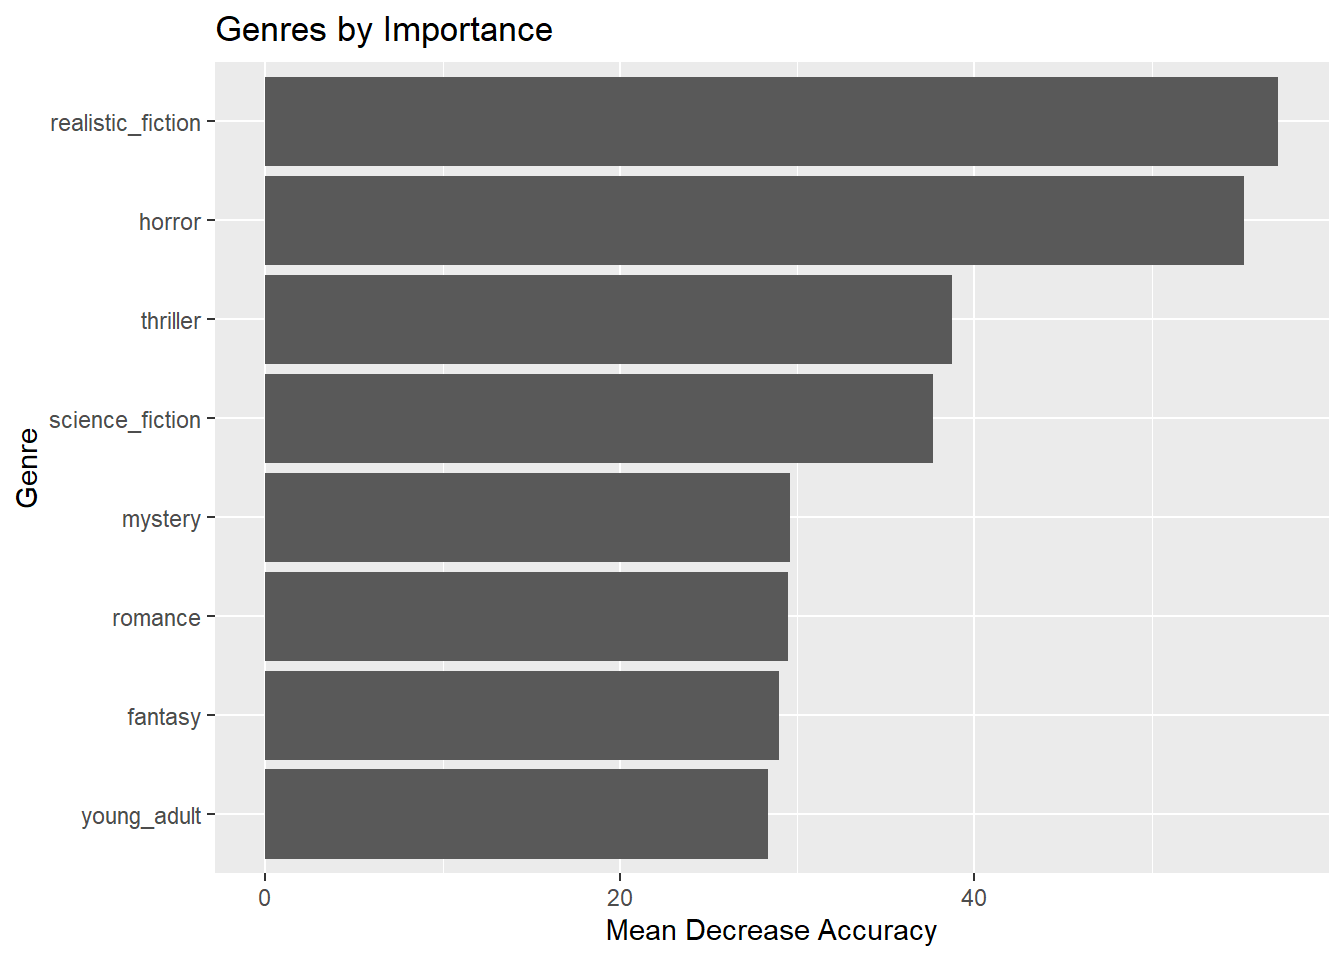
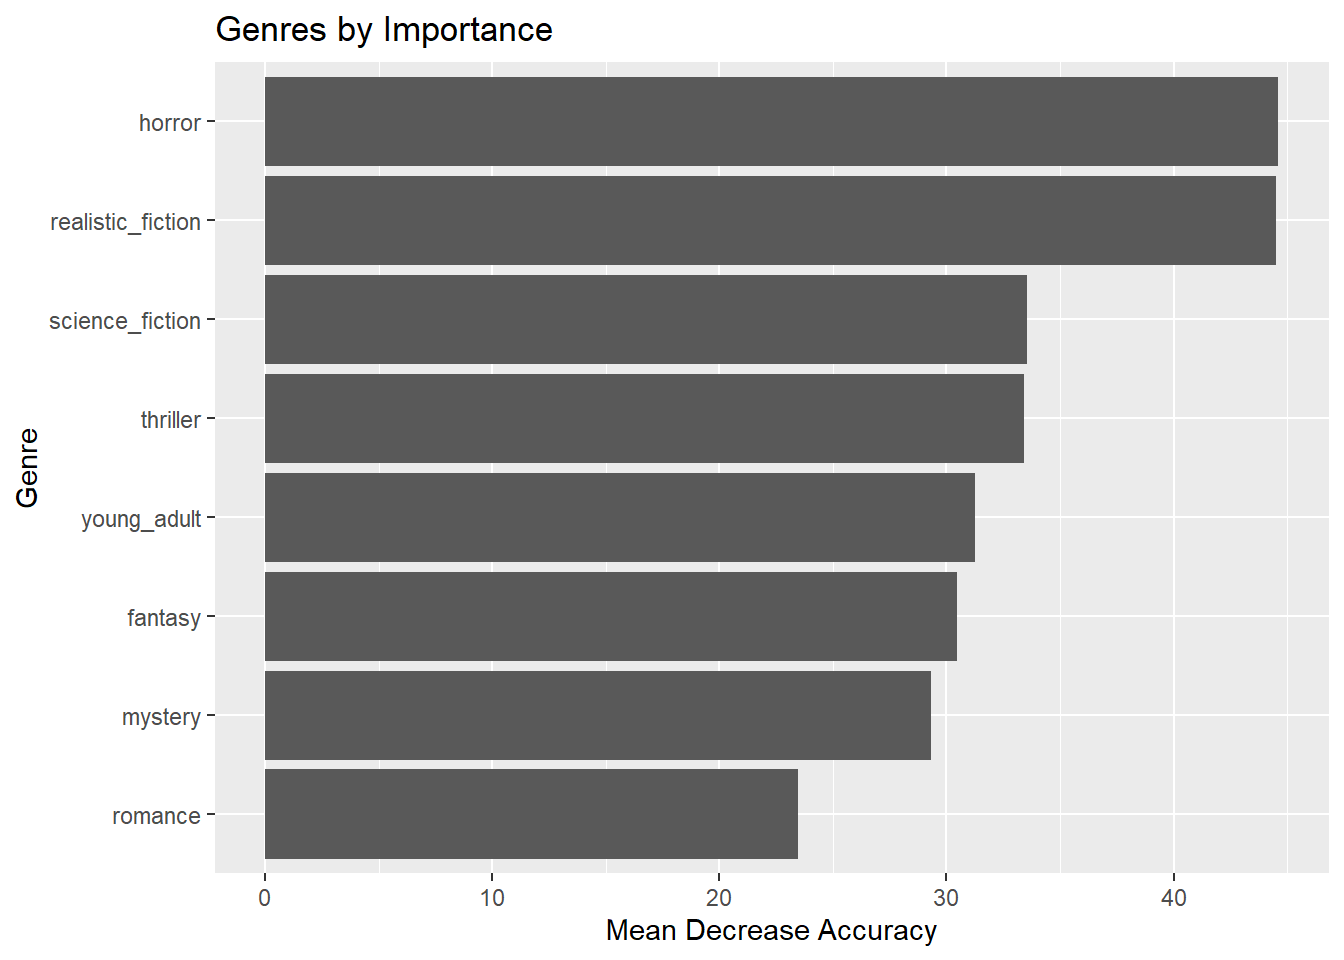
Clean up prediction section

diff --git a/docs/index.html b/docs/index.html
@@ -395,9 +395,6 @@ head(user_features_df, 15) %&gt;%
 <p>Now that we have transformed the original data into a data frame of average genre ratings for all users, we can begin analyzing users based on genre ratings.</p>
 <p>One way to better understand data in general is through visualization. For example, if we want to see where the readership lies on ratings for young adult versus fantasy, we can do so by plotting the average ratings from both genres on a 2D scatterplot.</p>
 <pre class="r"><code>ggplot(user_features_df, mapping=aes(x=fantasy, y=young_adult)) + 
-# If you don&#39;t want to see user averages for users who have not rated books from either genre, uncomment the next two lines
-#  scale_x_continuous(limits = c(0, 5)) + 
-#  scale_y_continuous(limits = c(0, 5)) + 
   geom_point() +
   labs(
     title=&quot;User Average Ratings for Young Adult Versus Fantasy&quot;,
@@ -475,58 +472,52 @@ kmeans_res$centers %&gt;%
 {"columns":[{"label":["fantasy"],"name":[1],"type":["dbl"],"align":["right"]},{"label":["horror"],"name":[2],"type":["dbl"],"align":["right"]},{"label":["mystery"],"name":[3],"type":["dbl"],"align":["right"]},{"label":["realistic_fiction"],"name":[4],"type":["dbl"],"align":["right"]},{"label":["romance"],"name":[5],"type":["dbl"],"align":["right"]},{"label":["science_fiction"],"name":[6],"type":["dbl"],"align":["right"]},{"label":["thriller"],"name":[7],"type":["dbl"],"align":["right"]},{"label":["young_adult"],"name":[8],"type":["dbl"],"align":["right"]}],"data":[{"1":"4.08","2":"4.06","3":"4.09","4":"-5.00","5":"4.03","6":"3.99","7":"4.00","8":"4.03"},{"1":"4.07","2":"3.95","3":"4.03","4":"3.96","5":"3.98","6":"4.04","7":"3.99","8":"4.07"},{"1":"3.54","2":"-5.00","3":"3.99","4":"3.88","5":"3.96","6":"1.90","7":"3.13","8":"4.09"},{"1":"4.57","2":"4.53","3":"4.56","4":"4.48","5":"4.52","6":"4.56","7":"4.55","8":"4.56"},{"1":"3.62","2":"3.45","3":"3.58","4":"3.54","5":"3.54","6":"3.57","7":"3.53","8":"3.63"},{"1":"3.11","2":"2.96","3":"3.11","4":"3.13","5":"3.10","6":"2.59","7":"2.69","8":"3.15"}],"options":{"columns":{"min":{},"max":[10]},"rows":{"min":[10],"max":[10]},"pages":{}}}
   </script>
 </div>
-<pre class="r"><code># PCA
-pca_res &lt;- prcomp(user_features_df, center=TRUE, scale.=TRUE)
-plot_data &lt;- pca_res$x[,1:2] %&gt;%
-  as_tibble() %&gt;%
-  mutate(cluster=factor(kmeans_res$cluster))
- 
-ggplot(plot_data, aes(PC1, PC2, color=cluster)) +
-  geom_point() + 
+<pre class="r"><code>autoplot(kmeans_res, data=user_features_df, frame=TRUE) +
   labs(title=&quot;Readership Clusters&quot;)</code></pre>
 <p><img src="index_files/figure-html/unnamed-chunk-8-1.png" width="672" style="display: block; margin: auto;" /></p>
+<p>We can try to qualitatively summarize our clusters:</p>
+<ol style="list-style-type: decimal">
+<li>Rates average 4 in all genres but doesn’t read realistic fiction</li>
+<li>Rates average 4 in all genres</li>
+<li>Rates average 3-4 in all genres but dislikes sci-fi and doesn’t read horror</li>
+<li>Rates average 4.5-5 in all genres</li>
+<li>Rates average 3.5 in all genres</li>
+<li>Rates average 3 all genres</li>
+</ol>
 </div>
 </div>
 <div id="making-predictions" class="section level2">
 <h2>Making Predictions</h2>
-<p>Here in this section we talk about prediction analysis using R, specifically with regards to basic machine learning. In the following code chunk, we take our previous results from k-means clustering, and then append them to our previous dataframe in order to augment it into a <strong>training data frame</strong>. Notice also here that we’re also generating the individual Principal Components used in PCA before. The intent here is that we can select a subset of the most important (cover the most variability) Principal Components and use those in other prediction methods. We’ve also included a graph of the PC’s and how they correspond to clustering with the k-means algorithm.</p>
+<p>Now that we have done some analysis on our data and characterized Goodreads’ users into clusters, let’s see if we can predict which clusters users will land in using some basic machine learning (ML) techniques.</p>
+<p>In general, data is split into two classes for, one for training the model and the other for testing the model. Let’s take a sample of our users and split them into training and testing data.</p>
 <pre class="r"><code>set.seed(1234)
 
 # Set up training data for cluster prediction   
-training_data_ratings &lt;- user_features_df %&gt;%
+user_sample &lt;- user_features_df %&gt;%
   mutate(cluster=factor(kmeans_res$cluster)) %&gt;%
   sample_n(5000)
 
-# Setting up training data for PCA anlaysis
-training_data_pca &lt;-  as.data.frame(predict(pca_res, training_data_ratings)) %&gt;% as_tibble()
-training_data_pca$cluster &lt;- training_data_ratings$cluster
-
-training_data_ratings %&gt;%   
-  head(15) %&gt;%  
-  rmarkdown::paged_table()</code></pre>
-<div data-pagedtable="false">
-<script data-pagedtable-source type="application/json">
-{"columns":[{"label":["fantasy"],"name":[1],"type":["dbl"],"align":["right"]},{"label":["horror"],"name":[2],"type":["dbl"],"align":["right"]},{"label":["mystery"],"name":[3],"type":["dbl"],"align":["right"]},{"label":["realistic_fiction"],"name":[4],"type":["dbl"],"align":["right"]},{"label":["romance"],"name":[5],"type":["dbl"],"align":["right"]},{"label":["science_fiction"],"name":[6],"type":["dbl"],"align":["right"]},{"label":["thriller"],"name":[7],"type":["dbl"],"align":["right"]},{"label":["young_adult"],"name":[8],"type":["dbl"],"align":["right"]},{"label":["cluster"],"name":[9],"type":["fctr"],"align":["left"]}],"data":[{"1":"4.000000","2":"4.200000","3":"4.137931","4":"4.090909","5":"3.956522","6":"3.833333","7":"3.772727","8":"4.068182","9":"2"},{"1":"4.346154","2":"4.583333","3":"4.258065","4":"4.375000","5":"4.114286","6":"4.388889","7":"4.200000","8":"4.357143","9":"4"},{"1":"2.542373","2":"1.750000","3":"2.866667","4":"3.023810","5":"2.710744","6":"2.555556","7":"4.000000","8":"2.764706","9":"6"},{"1":"3.250000","2":"3.208333","3":"3.277778","4":"3.210526","5":"3.470588","6":"3.263158","7":"3.355769","8":"3.531250","9":"5"},{"1":"4.294118","2":"4.000000","3":"3.954545","4":"4.090909","5":"4.026316","6":"4.200000","7":"3.823529","8":"4.388889","9":"2"},{"1":"3.611765","2":"3.611111","3":"3.478261","4":"3.266667","5":"3.238095","6":"3.606061","7":"3.350000","8":"3.512821","9":"5"},{"1":"3.923077","2":"3.666667","3":"4.102564","4":"4.215385","5":"4.146667","6":"3.736842","7":"3.800000","8":"4.115789","9":"2"},{"1":"3.642857","2":"3.375000","3":"3.620000","4":"3.517241","5":"3.230769","6":"3.500000","7":"3.589744","8":"4.066667","9":"5"},{"1":"3.400000","2":"3.333333","3":"3.148936","4":"3.279070","5":"3.283582","6":"3.416667","7":"2.892857","8":"3.333333","9":"5"},{"1":"4.392157","2":"4.080000","3":"4.159091","4":"4.333333","5":"4.166667","6":"4.421053","7":"4.148936","8":"4.375000","9":"2"},{"1":"4.323944","2":"3.857143","3":"4.432432","4":"4.066667","5":"4.509091","6":"4.300000","7":"4.426471","8":"4.555556","9":"4"},{"1":"4.075758","2":"4.000000","3":"3.861111","4":"4.000000","5":"3.894737","6":"4.100000","7":"4.111111","8":"4.000000","9":"2"},{"1":"3.419355","2":"3.437500","3":"3.433333","4":"3.700000","5":"3.357143","6":"3.418182","7":"3.378788","8":"3.400000","9":"5"},{"1":"2.428571","2":"3.000000","3":"2.571429","4":"3.250000","5":"3.066667","6":"2.000000","7":"3.000000","8":"2.904762","9":"6"},{"1":"4.543478","2":"4.666667","3":"4.516667","4":"4.608696","5":"4.189189","6":"4.516129","7":"4.509091","8":"4.487179","9":"4"}],"options":{"columns":{"min":{},"max":[10]},"rows":{"min":[10],"max":[10]},"pages":{}}}
-  </script>
-</div>
-<pre class="r"><code>training_data_pca %&gt;%
-  head(15) %&gt;%
-  rmarkdown::paged_table()</code></pre>
-<div data-pagedtable="false">
-<script data-pagedtable-source type="application/json">
-{"columns":[{"label":["PC1"],"name":[1],"type":["dbl"],"align":["right"]},{"label":["PC2"],"name":[2],"type":["dbl"],"align":["right"]},{"label":["PC3"],"name":[3],"type":["dbl"],"align":["right"]},{"label":["PC4"],"name":[4],"type":["dbl"],"align":["right"]},{"label":["PC5"],"name":[5],"type":["dbl"],"align":["right"]},{"label":["PC6"],"name":[6],"type":["dbl"],"align":["right"]},{"label":["PC7"],"name":[7],"type":["dbl"],"align":["right"]},{"label":["PC8"],"name":[8],"type":["dbl"],"align":["right"]},{"label":["cluster"],"name":[9],"type":["fctr"],"align":["left"]}],"data":[{"1":"0.5432715","2":"0.06760501","3":"-0.26117119","4":"0.049408924","5":"0.35661962","6":"-0.0720484189","7":"-0.15743328","8":"0.209150837","9":"2"},{"1":"1.7124988","2":"-0.09532340","3":"-0.41587198","4":"0.001793298","5":"0.13933396","6":"0.0741115408","7":"0.12240584","8":"0.168393079","9":"4"},{"1":"-4.4858635","2":"0.29207600","3":"0.19098462","4":"1.319743745","5":"-1.31901999","6":"0.2895388994","7":"0.12493279","8":"0.002011214","9":"6"},{"1":"-2.1683099","2":"-0.07469882","3":"-0.06015029","4":"0.131769337","5":"0.01353766","6":"0.3659025899","7":"-0.07502277","8":"-0.238329350","9":"5"},{"1":"1.0042900","2":"0.07549336","3":"-0.19354034","4":"-0.444154133","5":"0.20624783","6":"0.2619933142","7":"0.37055970","8":"-0.025279148","9":"2"},{"1":"-1.7376314","2":"-0.46859041","3":"-0.33917834","4":"-0.062124867","5":"-0.08948850","6":"-0.0689205683","7":"0.23463564","8":"0.233711202","9":"5"},{"1":"0.5289511","2":"0.51379435","3":"-0.01537821","4":"-0.009720388","5":"0.24764651","6":"0.0582680245","7":"-0.29587416","8":"-0.057938315","9":"2"},{"1":"-1.1468758","2":"0.03331248","3":"-0.07732837","4":"-0.057802762","5":"0.02696398","6":"0.5232854352","7":"0.55128740","8":"0.637532659","9":"5"},{"1":"-2.5592775","2":"-0.31325136","3":"-0.47189964","4":"-0.327458115","5":"0.06364221","6":"0.0008810543","7":"0.07727219","8":"-0.222155851","9":"5"},{"1":"1.5987138","2":"0.11897876","3":"-0.21761659","4":"-0.244206519","5":"-0.04598309","6":"0.1092285365","7":"0.21672458","8":"-0.023056364","9":"2"},{"1":"2.1594241","2":"0.36319724","3":"0.42779839","4":"-0.032419488","5":"0.02760074","6":"0.2542841936","7":"-0.17024490","8":"-0.082556828","9":"4"},{"1":"0.4501249","2":"-0.12269423","3":"-0.28559652","4":"0.122082956","5":"-0.17601531","6":"0.0715410461","7":"0.22023329","8":"-0.121412455","9":"2"},{"1":"-1.9275514","2":"-0.07091472","3":"-0.48955500","4":"0.167066369","5":"-0.12405981","6":"-0.0504020783","7":"-0.03436655","8":"0.004469251","9":"5"},{"1":"-4.7187872","2":"0.20184691","3":"-0.44044534","4":"0.971369577","5":"0.35026165","6":"0.4968258379","7":"-0.15497733","8":"-0.632476016","9":"6"},{"1":"2.4385145","2":"0.01557281","3":"-0.36082437","4":"0.137893680","5":"0.02324007","6":"-0.0499055453","7":"0.17861266","8":"0.370130036","9":"4"}],"options":{"columns":{"min":{},"max":[10]},"rows":{"min":[10],"max":[10]},"pages":{}}}
-  </script>
-</div>
+# Split training-testing 3:1
+n &lt;- nrow(user_sample)
+ntrain &lt;- round(n*0.75)
+split_index &lt;- sample(n, ntrain)
+train_data_ratings &lt;- user_sample[split_index,]
+test_data_ratings &lt;- user_sample[-split_index,]</code></pre>
+<p>Now that we have split our data, let’s use it to test to types of classification models, random forests and state vector machines.</p>
 <div id="random-forests" class="section level3">
 <h3>Random Forests</h3>
-<p>Now that we’ve generated our training data set, we can begin training our own machine learning (ML) model. First, we’ll take a look at a popular tree-based model known as a <a href="https://towardsdatascience.com/understanding-random-forest-58381e0602d2"><strong>random forest</strong></a>. In a regular decision tree, the idea is to break the classification problem of ML up into multiple partitions first, and this forms the basis of the actual tree. With random forests, we take this a step further by creating multiple, random decision trees and then averaging the results from each of them for the classification problem. This improves prediction and also reduces instability from just singular decision trees.</p>
-<pre class="r"><code># Training classification on dataframe using randomForest (n = 200):    
-rf_prediction &lt;- randomForest(cluster ~ .,  
+<p>First, we’ll take a look at a popular tree-based model known as a <a href="https://towardsdatascience.com/understanding-random-forest-58381e0602d2"><strong>random forest</strong></a>. Random forests are groups of decision trees used together to make classification decisions. For a given classification, every tree makes its own decision and all results are aggregated together at the end to determine the final classification. The benefit of using a random forest versus a single tree is that, generally, the random forest improves prediction results and reduces instability from using singular decision trees.</p>
+<div class="figure">
+<img src="images/random_forest.png" alt="Random forest example" />
+<p class="caption">Random forest example</p>
+</div>
+<p>Let us a train a random forest with 200 trees.</p>
+<pre class="r"><code>rf_model &lt;- randomForest(cluster ~ .,   
                               ntree=200,    
                               importance=TRUE,  
-                              data=training_data_ratings)   </code></pre>
-<p>Now that we’ve generated our random forest model using all of our elements/predictors (the ratings of each genre) and sampling 200 decision trees, we can now take a look at the actual importance of each predictor. The importance of each predictor is judged by the <strong>Mean Decrease in Accuracy</strong>, which is calculated as the decrease in accuracy when the predictor is removed from the model, allowing us to see which predictors are the most influential. When comparing mean decrease in accuracy, a larger mean decrease for one predictor over another means that if the first predictor were removed, it would result in the model making on average more misclassifications than the second.</p>
-<pre class="r"><code>variable_importance &lt;- importance(rf_prediction)
+                              data=train_data_ratings)  </code></pre>
+<p>Training a random forest model has the added benefit of allowing us to see which predictors are the most important for a classification decision. The importance of a predictor is determined using the <strong>Mean Decrease in Accuracy</strong>, which is the decrease in accuracy when the predictor is removed from the model, and allows us to see which predictors are the most influential. When comparing mean decrease in accuracy, a larger mean decrease for one predictor over another means that if the first predictor were removed, it would result in the model making on average more misclassifications than the second.</p>
+<pre class="r"><code>variable_importance &lt;- importance(rf_model)
 
 rf_predictors_importance &lt;- variable_importance %&gt;%
   as.data.frame() %&gt;%
@@ -538,97 +529,57 @@ rf_predictors_importance %&gt;%
   coord_flip() +
   labs(title=&quot;Genres by Importance&quot;, y=&quot;Mean Decrease Accuracy&quot;, x=&quot;Genre&quot;)</code></pre>
 <p><img src="index_files/figure-html/unnamed-chunk-11-1.png" width="672" style="display: block; margin: auto;" /></p>
-<p>From the graph, it seems that ratings in certain genres such as realistic fiction and horror are able to better classify users by reducing error in classifying.</p>
+<p>Observing the graph, it seems that the average ratings for realistic fiction and horror are able to best able classify users since they show the greatest mean decrease in accuracy on removal.</p>
 </div>
 <div id="support-vector-machines" class="section level3">
 <h3>Support Vector Machines</h3>
-<p>As an additional example, we’ll also show how to train using a <strong>support vector machine</strong> (SVM) multi-classification model as an additional factor in our experiment below. The way SVM works, is to actually <strong>increase dimension</strong> as compared to PCA. Basically, we want to create a hyperplane - some n-dimensional vector that can effectively separate between multiple classes in the classification problem. As an example of how this work, consider a simple 2 group classification problem in 2D:</p>
+<p>The other model we are interested in is a <strong>support vector machine</strong> (SVM) multi-classification model. SVMs work by trying to increase the number of dimensions so it can divide clusters of points using a plane in n-dimensions called a hyperplane.</p>
+<p>For instance, in the example below, by transforming the points in 2D to 3D, it becomes possible to partition the two clusters of points using a 3D plane whereas this would not have been possible with a line in 2D.</p>
 <div class="figure">
-<img src="images/svm_example.png" alt="Example SVM: Moving from 2D coordinate space to 3D in order to better separate classification" />
-<p class="caption">Example SVM: Moving from 2D coordinate space to 3D in order to better separate classification</p>
+<img src="images/svm_example.png" alt="SVM Example: Increasing dimensions allows for an easier separation" />
+<p class="caption">SVM Example: Increasing dimensions allows for an easier separation</p>
 </div>
-<p>In the example above, the 2D plot is circular, meaning there is no easy, linear division between the red and blue points. However, if we extend to 3D (by letting <span class="math inline">\(z = x^2 + y^2\)</span>) we get a shape in 3D that we can divide using a plane. Notice that by translating this plane into 2D, we actually get a circle although in 3D it is “linear/planar”. The “support vectors” in SVM refer to the data points closest to the hyperplane, which are used to help determine the hyperplane itself. In the next example, we use the ratings training data set to train our SVM model:</p>
-<pre class="r"><code>set.seed(1234)    # Setting seed for reproducibility
+<p>Let’s train an SVM model.</p>
+<pre class="r"><code>set.seed(1234)
 
-n &lt;- nrow(training_data_ratings)  # Number of observations
-ntrain &lt;- round(n*0.75)  # 75% for training set
-split_index &lt;- sample(n, ntrain)   # Create a random index
-train_svm &lt;- training_data_ratings[split_index,]   # Create training set
-test_svm &lt;- training_data_ratings[-split_index,]   # Create test set
-
-svm_prediction &lt;- svm(cluster ~ .,
-                      data=train_svm, 
+svm_model &lt;- svm(cluster ~ .,
+                      data=train_data_ratings, 
                       method=&quot;C-classification&quot;,
                       kernal=&quot;radial&quot;, 
                       gamma=0.1,
-                      cost=10) #coefficients determined w/ help from guide
-#summary of SVM model stats:
-summary(svm_prediction)</code></pre>
-<pre><code>## 
-## Call:
-## svm(formula = cluster ~ ., data = train_svm, method = &quot;C-classification&quot;, 
-##     kernal = &quot;radial&quot;, gamma = 0.1, cost = 10)
-## 
-## 
-## Parameters:
-##    SVM-Type:  C-classification 
-##  SVM-Kernel:  radial 
-##        cost:  10 
-## 
-## Number of Support Vectors:  459
-## 
-##  ( 139 150 65 71 23 11 )
-## 
-## 
-## Number of Classes:  6 
-## 
-## Levels: 
-##  1 2 3 4 5 6</code></pre>
-<p>Looking at our model, we notice that we used 459 total support vectors, and you can also show from the summary the type of SVM classification we specified (C-Classification, most popularly used) and also the kernel function we used to reduce computing time (radial).</p>
-<p>Now we can visualize our hyperplane and the way our SVM model is classifying using an in-built function for SVM. For this, we’ll consider the differences between ratings for realistic fiction and horror (2 predictors of importance according to our previous random forest model) while keeping the others constant:</p>
-<pre class="r"><code># using plot() to visualize our hyperplane:
-plot(svm_prediction, train_svm, realistic_fiction ~ horror,
-          slice=list(fantasy = 3, mystery = 3, young_adult = 3, romance = 3, science_fiction = 3, thriller = 3))</code></pre>
-<p><img src="index_files/figure-html/unnamed-chunk-13-1.png" width="672" style="display: block; margin: auto;" /></p>
-<p>From the plot above, we keep the predictors for all the other predictors constant (at rating = 3), and are now taking a look at how SVM is plotting a hyperplane between clusters for the two ratings: realistic_fiction and horror. The color gradients in the plot correspond to the clusters our SVM model predicts, and from here you can see the support vectors (the points on the plot) and the margins between the respective clusters.</p>
+                      cost=10)</code></pre>
 </div>
 <div id="comparing-models" class="section level3">
 <h3>Comparing Models</h3>
-<pre class="r"><code>pred_svm &lt;- predict(svm_prediction, test_svm)
-
-table(test_svm$cluster, pred_svm)</code></pre>
-<pre><code>##    pred_svm
-##       1   2   3   4   5   6
-##   1  20   0   0   0   0   0
-##   2   0 439   0   0   1   0
-##   3   0   0  11   0   0   1
-##   4   0   1   0 244   0   0
-##   5   0   1   0   0 446   3
-##   6   0   0   0   0   1  82</code></pre>
-<pre class="r"><code>prop.table(table(test_svm$cluster, pred_svm), 1)</code></pre>
-<pre><code>##    pred_svm
-##               1           2           3           4           5           6
-##   1 1.000000000 0.000000000 0.000000000 0.000000000 0.000000000 0.000000000
-##   2 0.000000000 0.997727273 0.000000000 0.000000000 0.002272727 0.000000000
-##   3 0.000000000 0.000000000 0.916666667 0.000000000 0.000000000 0.083333333
-##   4 0.000000000 0.004081633 0.000000000 0.995918367 0.000000000 0.000000000
-##   5 0.000000000 0.002222222 0.000000000 0.000000000 0.991111111 0.006666667
-##   6 0.000000000 0.000000000 0.000000000 0.000000000 0.012048193 0.987951807</code></pre>
+<p>Now that we have both a random forest model and SVM, it would be useful to do some basic comparisons of between the two. One method of evaluating how good a model is can be done by looking at a <strong>confusion matrix</strong> of the test data. A confusion matrix tabulates the classifications made by a model with the predicted classes as rows and the true classes as columns.</p>
+<p>Let’s plot both the confusion matrix for our random forest and SVM models on the test data.</p>
+<pre class="r"><code>pred_rf &lt;- predict(rf_model, test_data_ratings)
+table(pred_rf, test_data_ratings$cluster)</code></pre>
+<pre><code>##        
+## pred_rf   1   2   3   4   5   6
+##       1  16   0   0   0   0   0
+##       2   1 457   4  13  21   2
+##       3   0   0   7   0   0   0
+##       4   1   9   0 220   1   0
+##       5   3  13   3   0 383  11
+##       6   1   0   1   0   7  76</code></pre>
+<pre class="r"><code>pred_svm &lt;- predict(svm_model, test_data_ratings)
+table(pred_svm, test_data_ratings$cluster)</code></pre>
+<pre><code>##         
+## pred_svm   1   2   3   4   5   6
+##        1  22   0   0   0   0   0
+##        2   0 477   0   1   1   0
+##        3   0   0  14   0   0   0
+##        4   0   1   0 232   0   0
+##        5   0   1   0   0 410   1
+##        6   0   0   1   0   1  88</code></pre>
+<p>Cursory observation of both matrices seems to indicate that while both models are quite good at predicting clusters based on ratings, the SVM seems to display slightly higher accuracy over the random forest.</p>
 </div>
 </div>
 <div id="results-and-discussion" class="section level2">
 <h2>Results and Discussion</h2>
 <div id="clustering" class="section level3">
 <h3>Clustering</h3>
-<p>Let’s try to qualitatively summarize our clusters:</p>
-<ol style="list-style-type: decimal">
-<li>Rates average 4 in all genres but doesn’t read realistic fiction</li>
-<li>Rates average 4 in all genres</li>
-<li>Rates average 3-4 in all genres but dislikes SF and doesn’t read horror</li>
-<li>Rates average 4.5-5 in all genres</li>
-<li>Rates average 3.5 in all genres</li>
-<li>Rates average 3 all genres</li>
-</ol>
 <p>Observing the graph of clusters, groups 2, 4, 5, and 6 appear to be located close to each other. Among the clusters, groups 1, 3, and 6 show the largest amounts of variation within their clusters while groups 2, 4, and 5 are tightly clustered.</p>
 <p>The close locations of groups 2, 4, 5, and 6 mean that the user ratings in these groups are harder to distinguish from each other which makes sense as these are all groups that are similar to each other in that they have users who have constant average ratings across all genres.</p>
 <p>Observing group 6, both its large variation and slight intersection into group 5 seem to indicate that while the average ratings are around 3, there are probably a substantial amount of users within the group that rate very low, dragging the averages down.</p>
